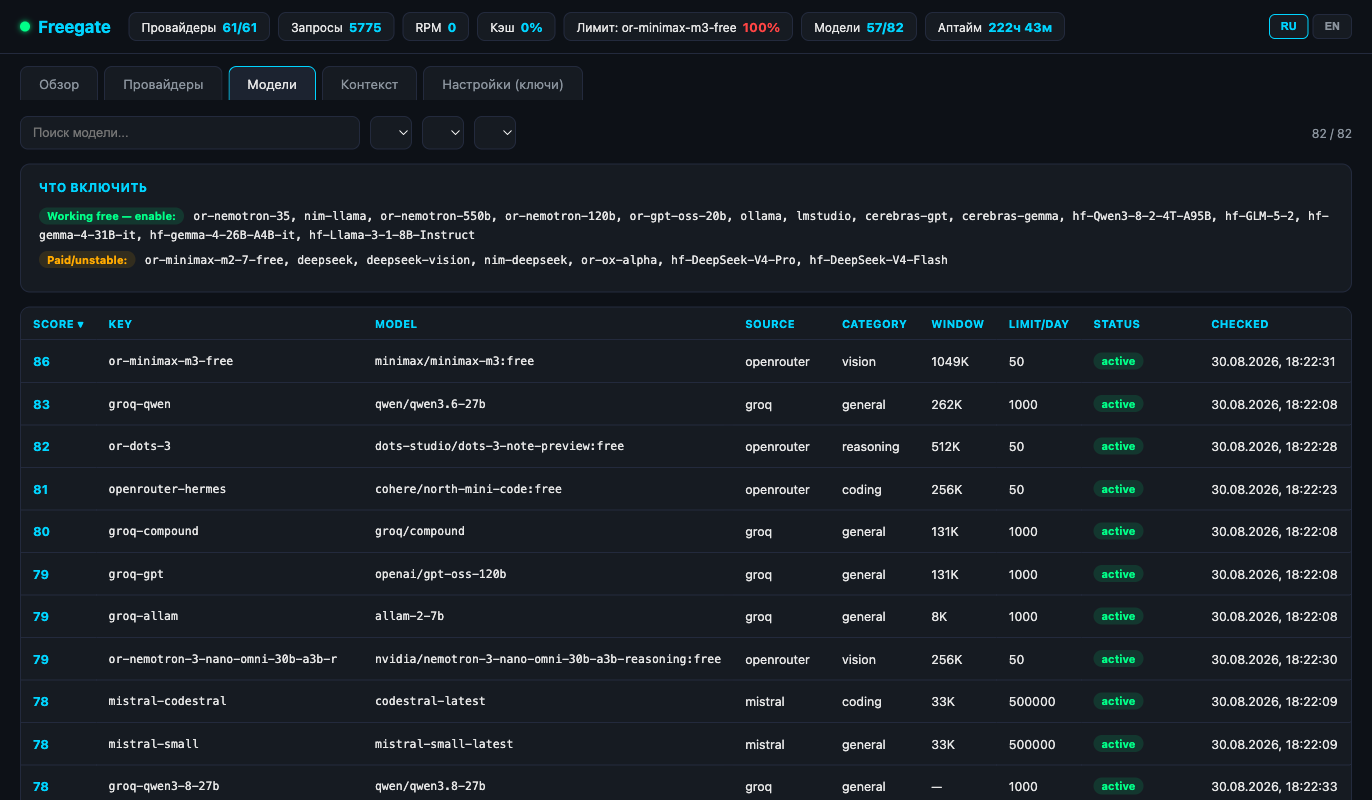
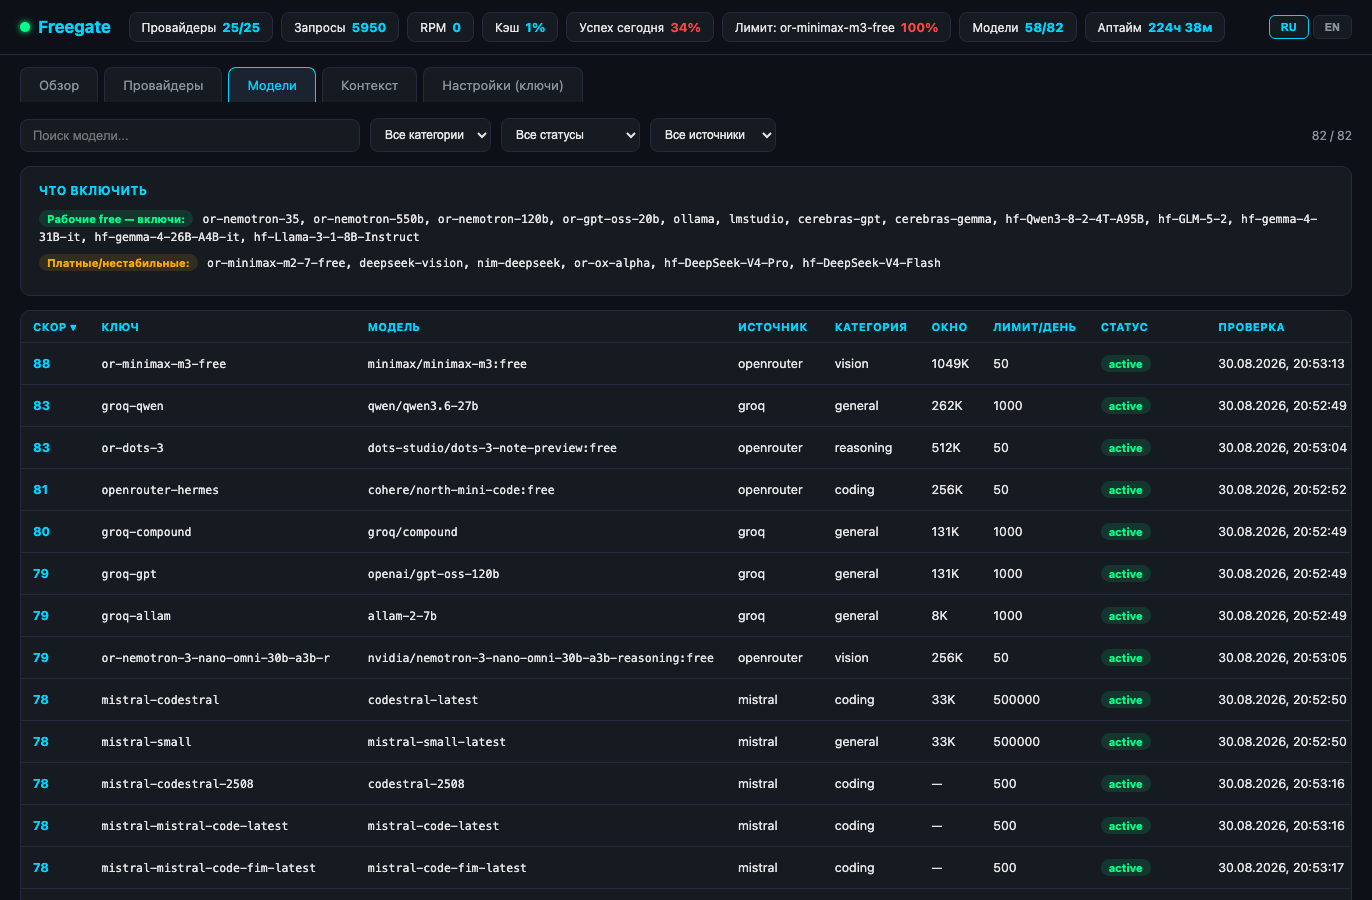
feat: демо-GIF дашборда + hash-навигация вкладок
- assets/dashboard.gif: анимированный демо-GIF (Обзор → Провайдеры → Модели →
  Контекст), assets/dashboard.png + dashboard-models.png обновлены на актуальные
  с метриками («Успех сегодня», «Экономия»).
- lib/dashboard.js: hash-навигация вкладок (#models, #providers, ...) —
  шаринг ссылки на конкретную вкладку + возможность headless-скриншота.
- README.ru/README.md: главный скриншот → GIF.
- 254 теста зелёные.

diff --git a/lib/dashboard.js b/lib/dashboard.js
@@ -349,6 +349,8 @@ const HTML = `<!DOCTYPE html>
       });
       document.querySelectorAll('.panel').forEach(function (p) { p.classList.remove('active'); });
       document.getElementById('panel-' + tab).classList.add('active');
+      // Шаринг вкладки по хэшу (#models и т.д.)
+      if (location.hash !== '#' + tab) { try { history.replaceState(null, '', '#' + tab); } catch (e) {} }
       if (tab === 'setup' && !_setupData) loadSetup();
       if (tab === 'models') fetchModels();
     }
@@ -828,6 +830,9 @@ const HTML = `<!DOCTYPE html>
     refresh();
     setInterval(refresh, 5000);
     setInterval(function () { _modelsFetchedAt = 0; fetchModels(); }, 30000);
+    // Открыть запрошенную вкладку из хэша (#models, #providers, ...)
+    var initial = (location.hash || '').replace('#', '');
+    if (initial && _tabByKey[initial]) showTab(initial);
     // модели: подгружаем рекомендации один раз после первой загрузки
     var _isEn = _lang === 'en';
   </script>

diff --git a/README.ru.md b/README.ru.md
@@ -28,7 +28,7 @@ Freegate крутится **на твоей машине** (`http://localhost:40
 провайдеров лежат в твоём локальном `.env`, история — в локальных файлах. **Ни
 один чужой сервер не видит твои ключи и переписки.**
 
-![Дашборд Freegate](assets/dashboard.png)
+![Дашборд Freegate](assets/dashboard.gif)
 
 ## Возможности
 

diff --git a/README.md b/README.md
@@ -29,7 +29,7 @@ is only yours — nobody else can connect to it, and you can't to theirs. Provid
 keys live in your local `.env`, history in local files. **No third-party server
 sees your keys or conversations.**
 
-![Freegate Dashboard](assets/dashboard.png)
+![Freegate Dashboard](assets/dashboard.gif)
 
 ## Features
 
